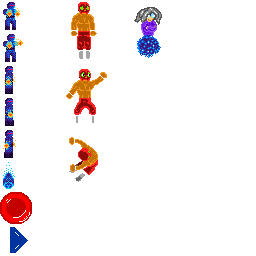
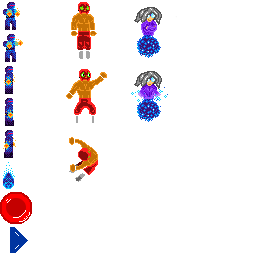
Se agrego un nuevo sprite para el startup del ataque de TeleportEnemy.

Changed region(s): [[0.5312, 0.2812, 0.6562, 0.4688]]

diff --git a/app/src/main/java/com/jgame/elements/TeleportEnemy.java b/app/src/main/java/com/jgame/elements/TeleportEnemy.java
@@ -20,6 +20,7 @@ public class TeleportEnemy extends GameCharacter {
 
     public final static TextureData TELEPORT_TEXTURE = new TextureData(0,0.625f,0.125f,0.75f);
     public final static TextureData IDLE_TEXTURE = new TextureData(0.5f,0,0.75f,0.25f);
+    public final static TextureData STARTUP_ATTACK = new TextureData(0.5f,0.25f,0.75f,0.5f);
     public final static float DISTANCE_FROM_ENEMY = 35;
     private CollisionObject[] startupBoxes = new CollisionObject[]{idleCollisionBoxes[0]};
     private CollisionObject[] activeBoxes = new CollisionObject[]{idleCollisionBoxes[0],
@@ -135,7 +136,7 @@ public class TeleportEnemy extends GameCharacter {
         if(activeAttack.currentState == AttackData.CollisionState.ACTIVE)
             return MainCharacter.ACTIVE_MOV_A;
         else
-            return MainCharacter.INIT_MOV_A;
+            return STARTUP_ATTACK;
     }
 
     @Override
